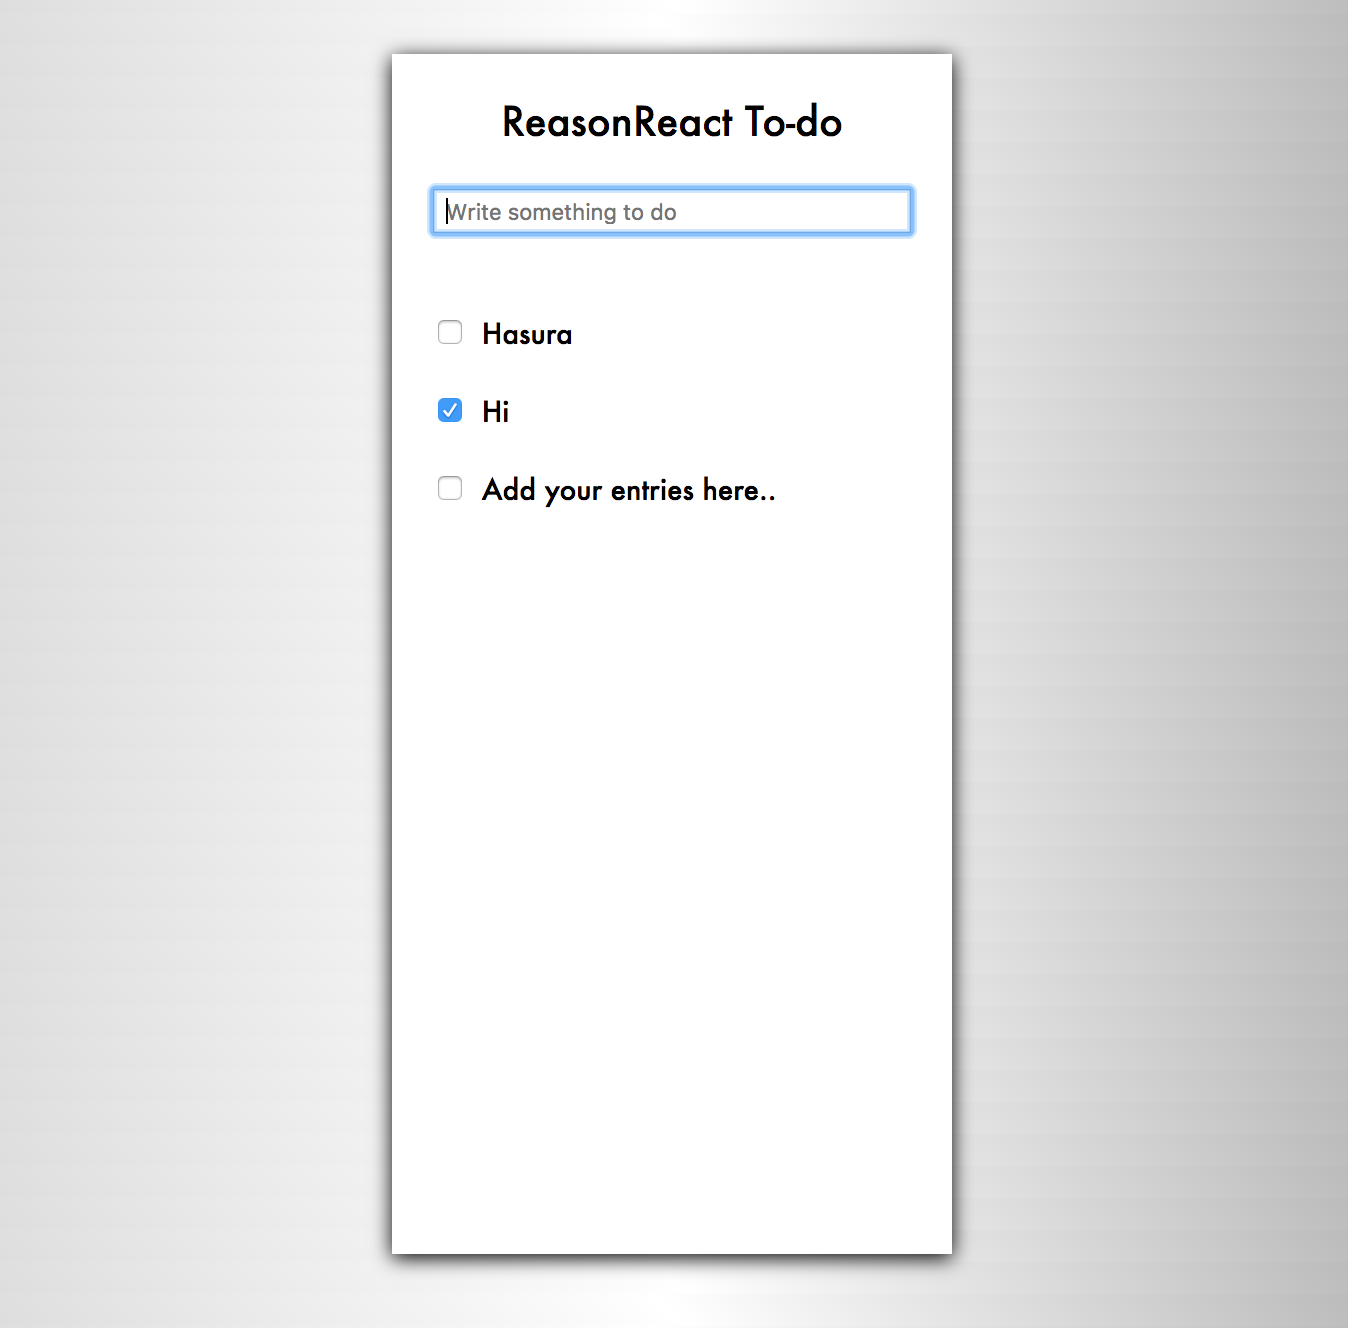
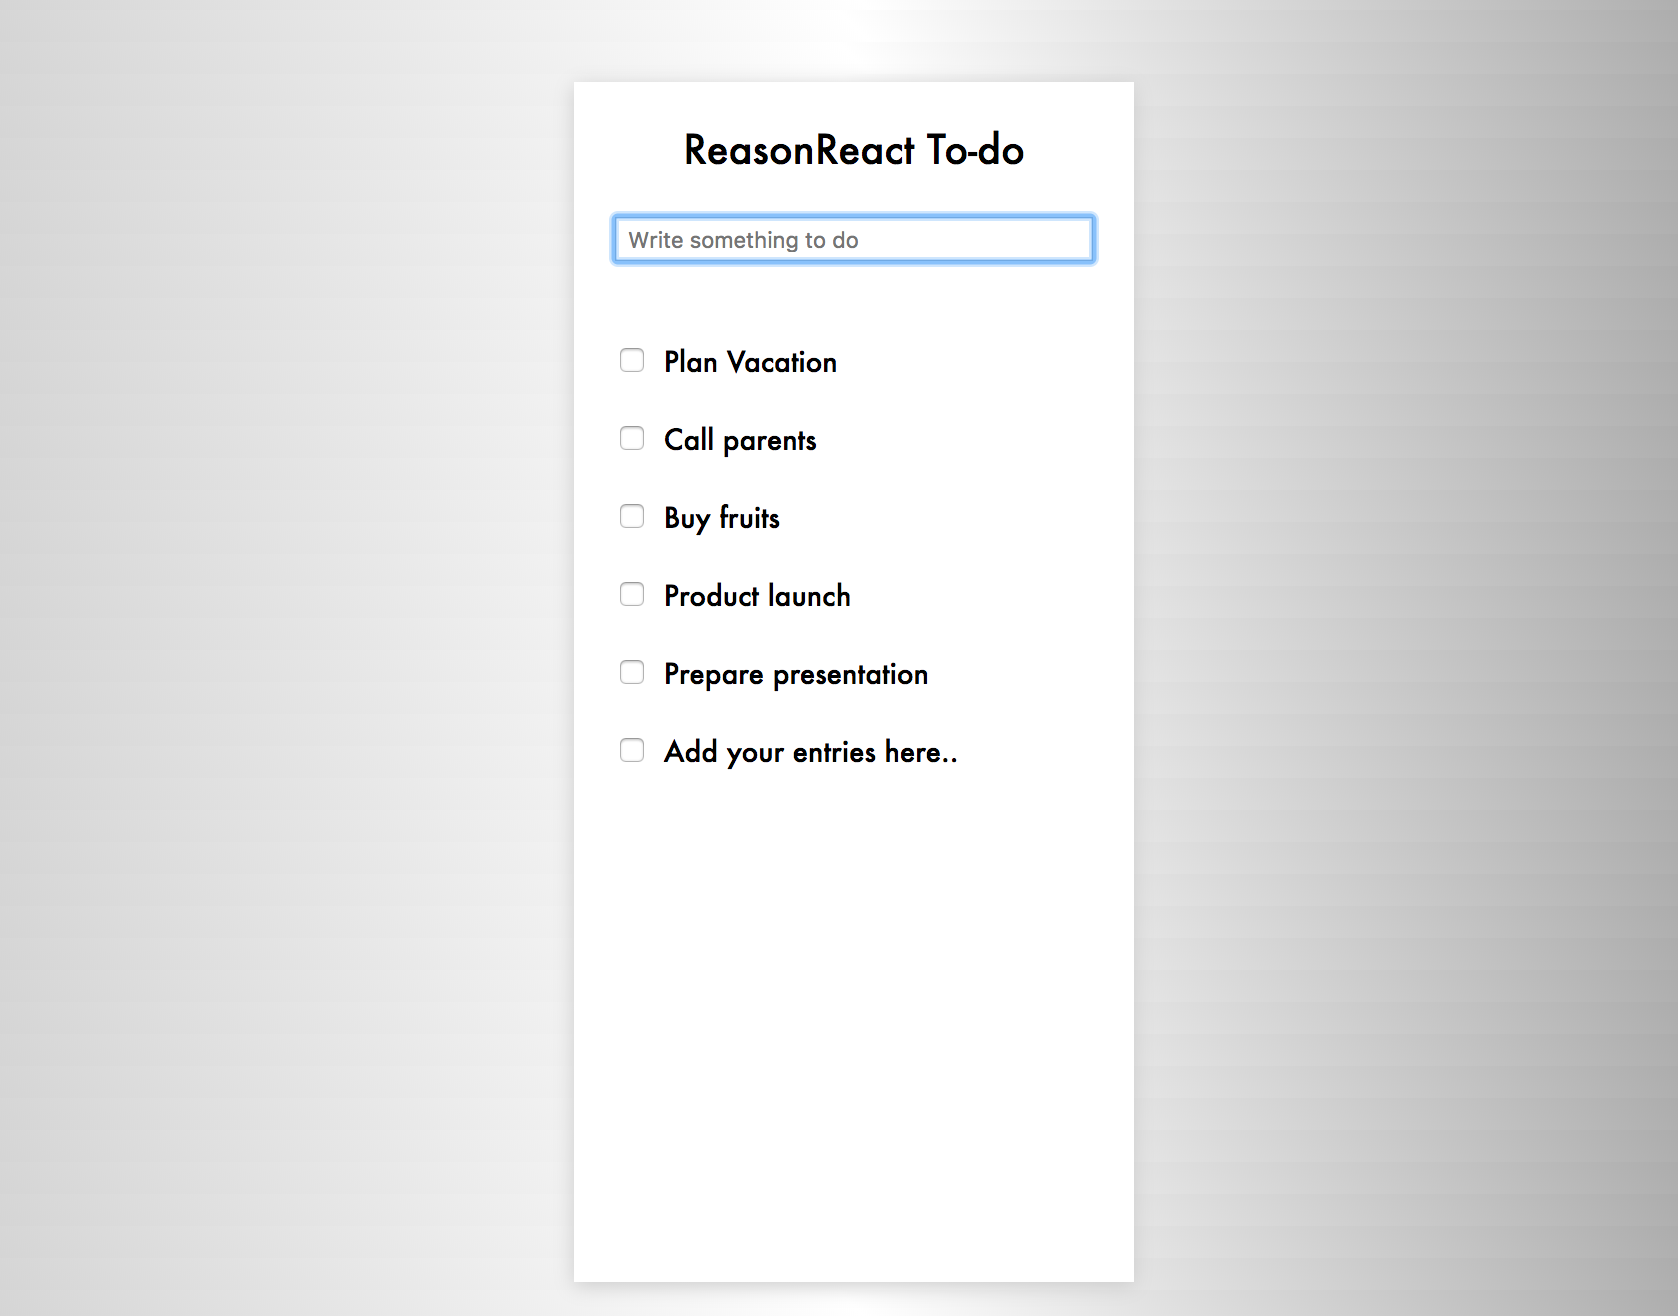
Added ReasonReact data view

diff --git a/README.md b/README.md
@@ -4,7 +4,15 @@ This quickstart will give you a Reason React project for a simple Todo applicati
 
 ![Todo](https://raw.githubusercontent.com/anirudhmurali/ReasonReact-Todo/master/ReasonReact.png)
 
-This quickstart makes use of [https://redex.github.io/packages/unpublished/glennsl/refetch](glennsl/refetch) to send HTTP requests, which are handled using Hasura's data APIs.
+**ReasonML** lets you write simple, fast and quality type safe code while leveraging both the JavaScript & OCaml ecosystems.
+
+This quickstart uses [**ReasonReact**](https://reasonml.github.io/reason-react/). ReasonReact is a way to build React components with Reason. This project makes use of [glennsl/refetch](https://redex.github.io/packages/unpublished/glennsl/refetch) package to send HTTP requests, which are handled using Hasura's data APIs.
+
+You can find the below piece of code in `microservices/www/src/src/TodoApp.re`.
+
+Update your cluster name in the two blocks of code. The first one is for inserting the Todo contents, and the second function block is to delete the entry upon toggling.
+
+You can track the insertion/deletion responses in your browser's console window. Open the API console with the command `hasura api-console` in your terminal, and view the **Data** section to see the data being inserted and deleted.
 
 ```
 Resync.(Refetch.(
